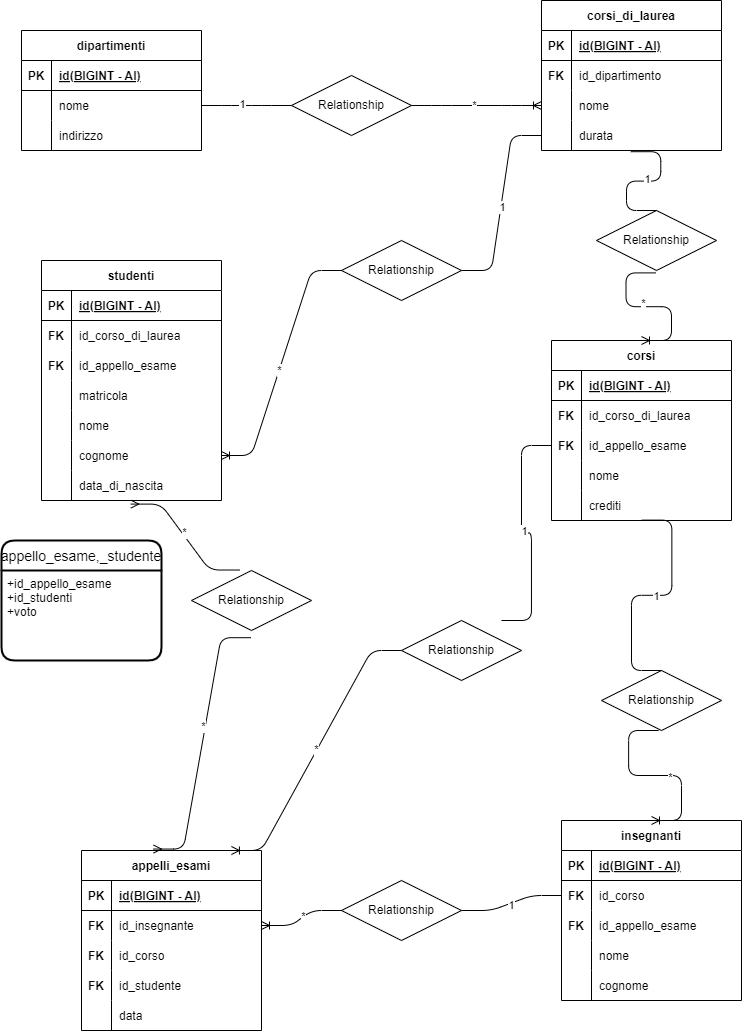
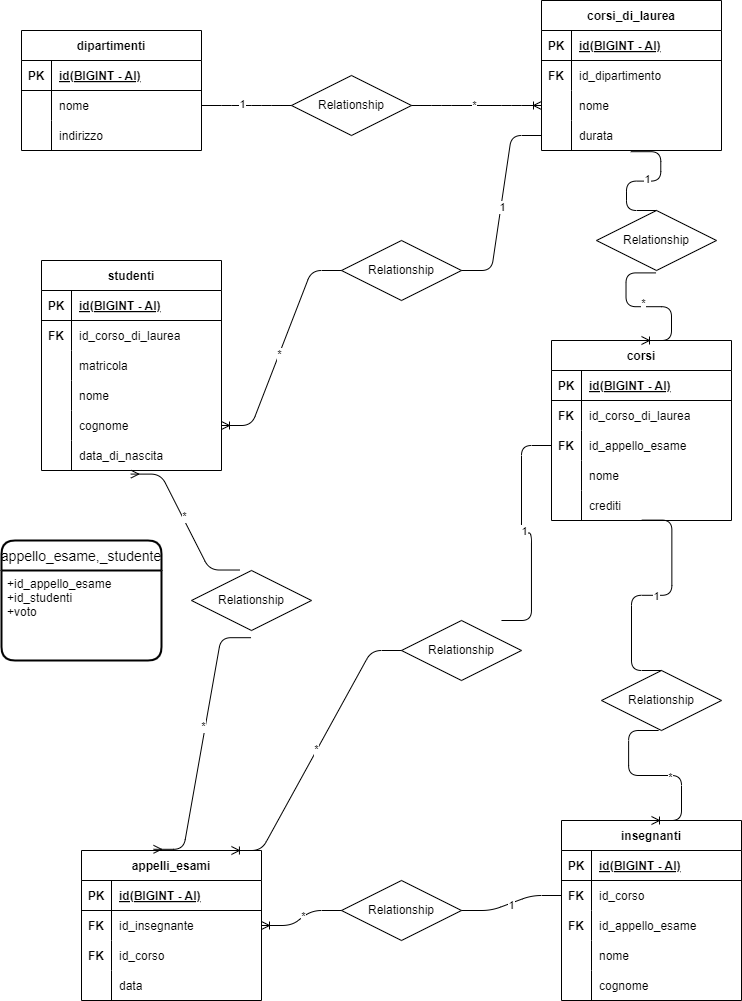
fix: entities

diff --git a/readme.md b/readme.md
@@ -48,7 +48,6 @@ per ogni appello d'Esame a cui lo Studente ha partecipato, è necessario memoriz
 - id | BIGINT - AI - PK - NOTNULL
 - id_insegnante
 - id_corso
-- id_studente
 - data | DATE - NULL - DEFAULT("da definire")
 
 ## studenti: table structure
